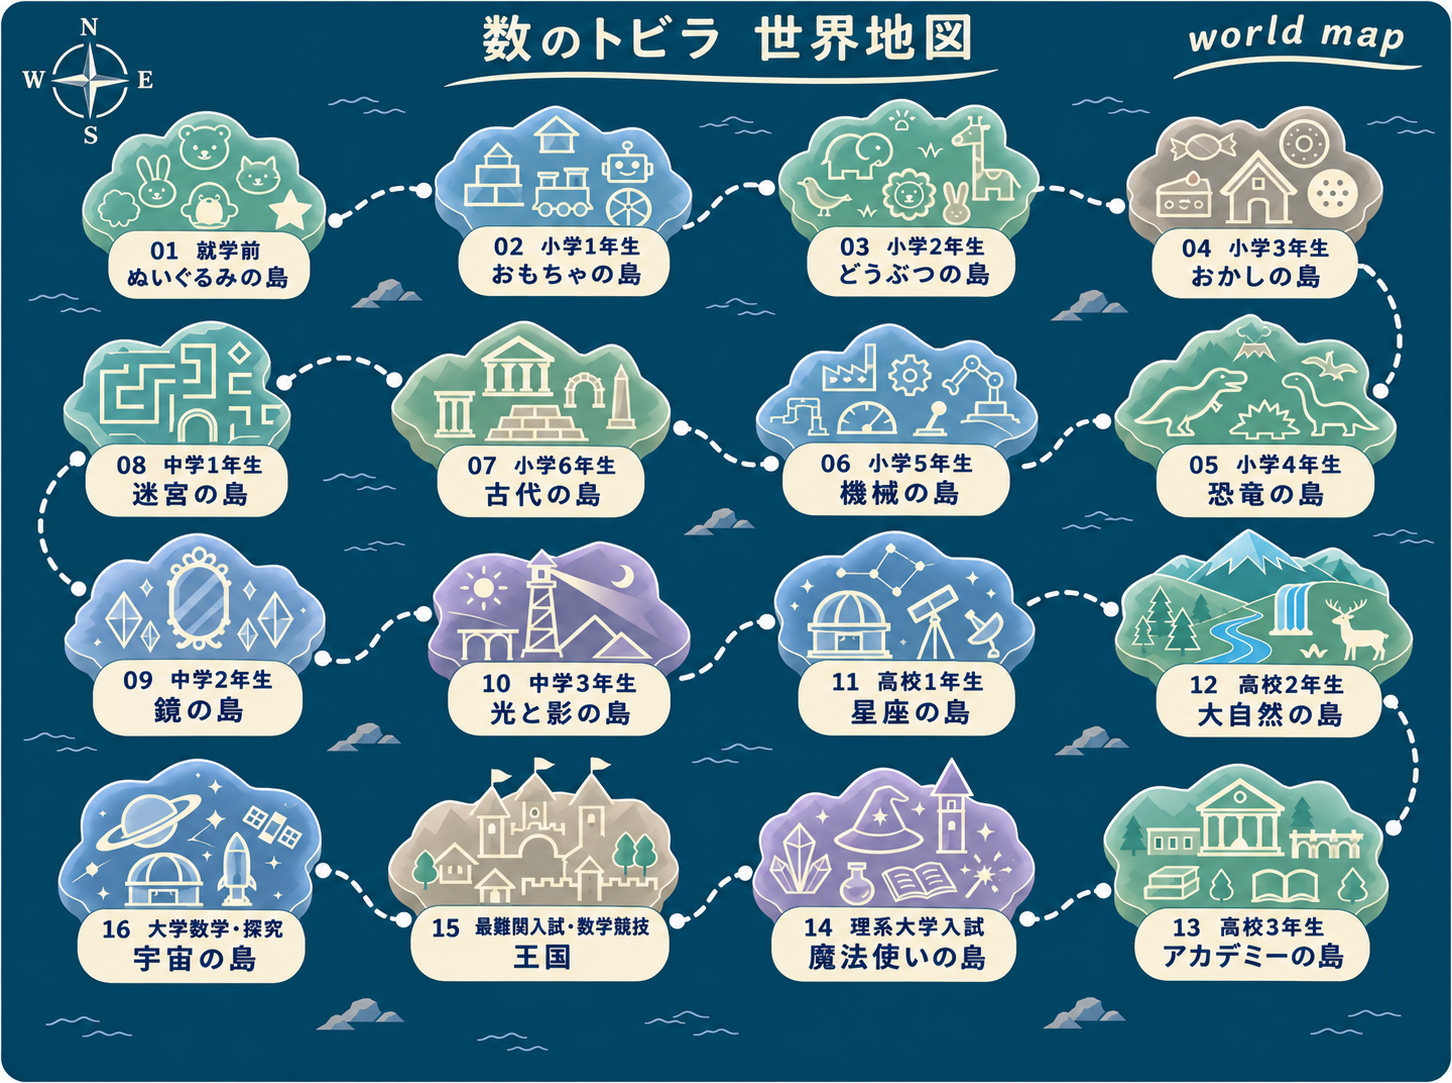
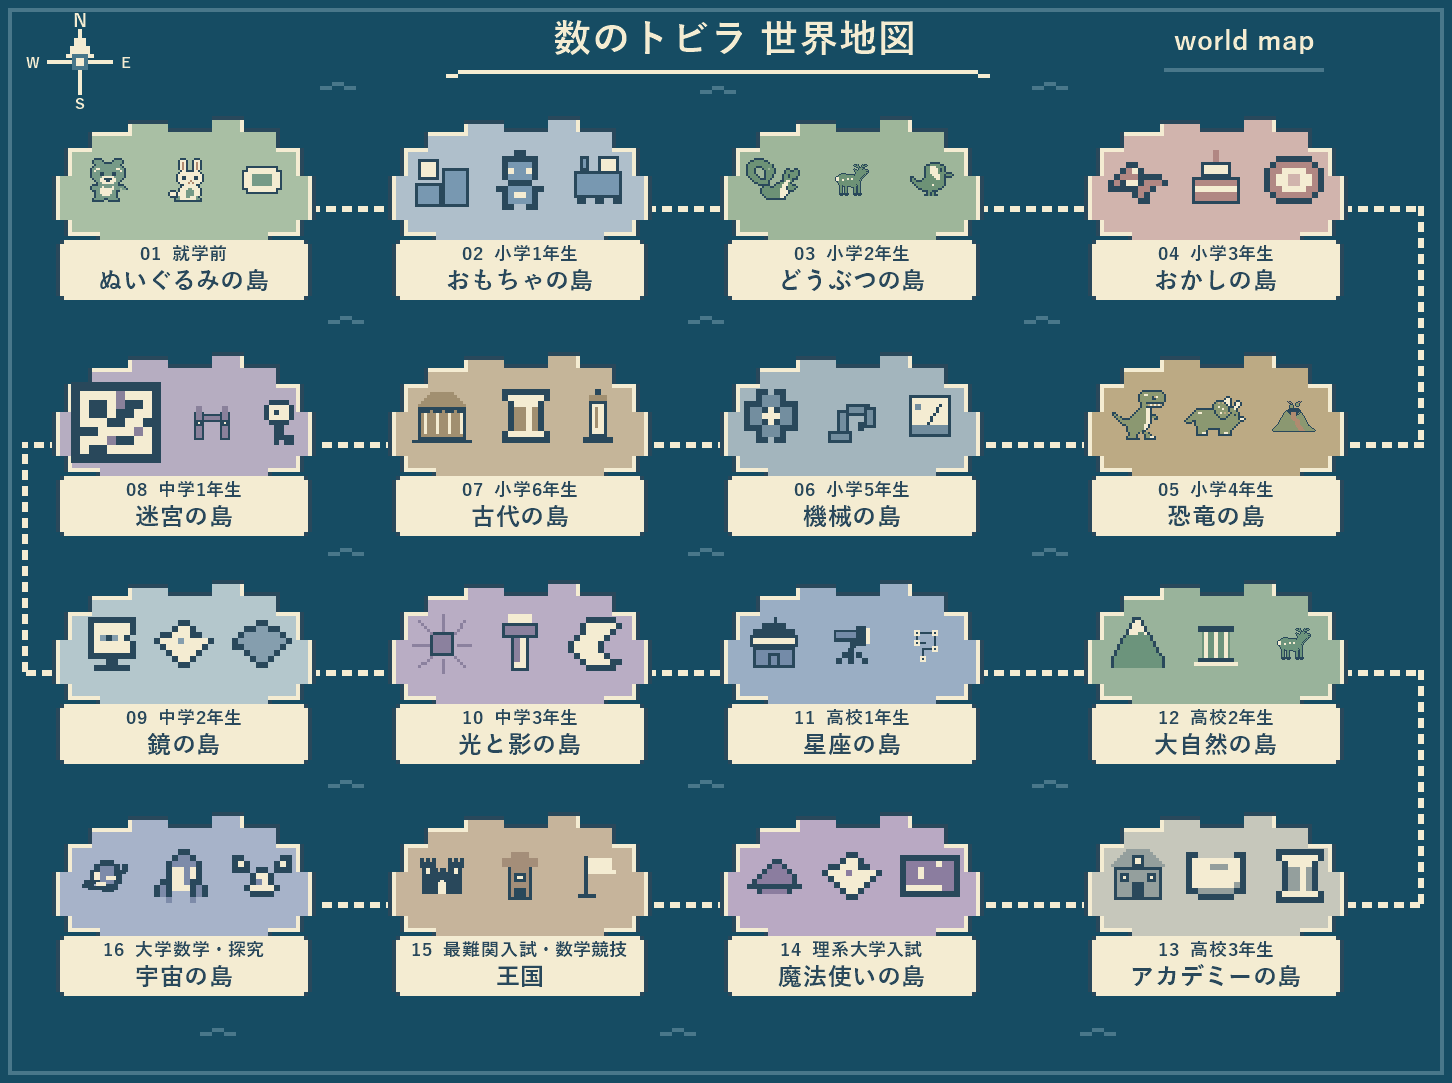
Unify world overview with a simple pixel atlas and preserved island targets (#170)

diff --git a/src/domain/pixelWorldMap.ts b/src/domain/pixelWorldMap.ts
@@ -1,0 +1,54 @@
+import {approvedWorldMapHotspots} from './approvedWorldMap.ts';
+import type {IslandSpriteId} from './islandPixelSprites.ts';
+
+/** World overview only: three readable stamps per island. Shared stage artwork,
+ * geometry, curriculum and entitlement rules are never changed by this atlas. */
+export const PIXEL_WORLD_MOTIFS = {
+  preschool:['forestBear','forestRabbit','cushion'],
+  e1:['blocks','robot','train'],
+  e2:['forestSquirrel','forestDeer','forestBird'],
+  e3:['candy','cake','donut'],
+  e4:['prehistoricRex','prehistoricTriceratops','prehistoricVolcano'],
+  e5:['gear','arm','meter'],
+  e6:['temple','column','obelisk'],
+  j1:['maze','gate','key'],
+  j2:['mirror','crystal','gem'],
+  j3:['sun','lightTower','moon'],
+  h1:['observatory','telescope','constellation'],
+  h2:['mountain','waterfall','forestDeer'],
+  h3:['school','book','column'],
+  sage:['hat','crystal','spellbook'],
+  champion:['castle','tower','flag'],
+  cosmos:['planet','rocket','satellite'],
+} as const satisfies Record<string,readonly IslandSpriteId[]>;
+
+// Same 16 anchors and serpentine connections as the existing clickable map.
+export const PIXEL_WORLD_CENTERS = approvedWorldMapHotspots.map(({x,y})=>({
+  x:Math.round((x*1452+12)/4)*4,y:Math.round(y*1083/4)*4,
+}));
+export const PIXEL_WORLD_CONNECTIONS = PIXEL_WORLD_CENTERS.slice(1).map((end,index)=>{
+  const start=PIXEL_WORLD_CENTERS[index];
+  if(index%4!==3)return {from:index,to:index+1,points:[{x:start.x,y:start.y+12},{x:end.x,y:end.y+12}]};
+  const outside=index===7?24:1420;
+  return {from:index,to:index+1,points:[{x:start.x,y:start.y+12},
+    {x:outside,y:start.y+12},{x:outside,y:end.y+12},{x:end.x,y:end.y+12}]};
+});
+/** Simplified overview-only stamps. Individual island artwork is untouched. */
+function overviewStamp(draw:(box:(x:number,y:number,w:number,h:number,c?:string)=>void)=>void) {
+  const grid=Array.from({length:24},()=>Array<string>(24).fill('.'));
+  draw((x,y,w,h,c='X')=>{for(let yy=y;yy<y+h;yy++)for(let xx=x;xx<x+w;xx++)if(grid[yy]?.[xx]!==undefined)grid[yy][xx]=c;});
+  return grid.map(row=>row.join(''));
+}
+export const PIXEL_WORLD_STAMPS={
+  cushion:overviewStamp(b=>{b(4,5,16,14);b(2,7,20,10);b(5,6,14,12,'F');b(3,8,18,8,'F');b(7,9,10,6,'B');}),
+  planet:overviewStamp(b=>{b(9,4,7,2);b(6,6,13,3);b(4,9,16,7);b(7,16,11,3);b(10,19,6,1);b(9,7,7,9,'B');b(6,10,3,4,'F');
+    b(1,14,5,3);b(0,16,3,2);b(3,17,5,2);b(7,15,5,2,'F');b(12,12,5,2,'F');b(17,9,5,2);b(20,6,3,4);}),
+  telescope:overviewStamp(b=>{b(3,5,12,6);b(14,3,5,10);b(19,4,2,8,'F');b(4,6,10,3,'B');b(11,11,3,3);b(10,14,3,8);
+    b(7,16,3,3);b(4,19,3,3);b(14,16,3,3);b(17,19,3,3);}),
+  constellation:overviewStamp(b=>{b(5,6,10,1);b(14,7,1,7);b(9,14,6,1);b(8,14,1,6);b(5,6,1,6);b(5,11,5,1);
+    for(const [x,y] of [[4,5],[13,5],[13,13],[7,18],[4,10]]){b(x,y,3,3,'F');b(x+1,y+1,1,1);}}),
+  waterfall:overviewStamp(b=>{b(3,3,18,3);b(5,6,14,14,'B');b(6,6,2,13,'F');b(11,6,2,13,'F');b(16,6,2,13,'F');b(3,19,18,2);b(1,21,22,2,'F');}),
+  castle:overviewStamp(b=>{for(const x of [2,16]){b(x,5,6,16);b(x-1,3,2,5);b(x+2,3,2,5);b(x+5,3,2,5);b(x+2,8,2,3,'F');}
+    b(8,10,8,11);b(7,8,3,4);b(11,8,3,4);b(15,8,2,4);b(10,15,4,6,'F');b(11,14,2,1,'F');}),
+  flag:overviewStamp(b=>{b(5,2,2,20);b(7,3,12,8,'F');b(17,9,4,2,'F');b(2,21,9,2);}),
+};

diff --git a/src/components/WorldScenes780.tsx b/src/components/WorldScenes780.tsx
@@ -83,7 +83,7 @@ export function WorldMap780({ progress, mode, access, onGrade, onTitles, preview
   };
   return <View style={styles.screen}>
     <View style={styles.worldBanner}>
-      <Text accessibilityRole="header" style={styles.bannerHeading}>数のトビラの世界地図</Text>
+      <Text accessibilityRole="header" style={styles.bannerHeading}>数のトビラ 世界地図</Text>
       <Text style={styles.bannerDescription}>01から16へ、点線にそって進もう。島をタップすると学習マップが開くよ。</Text>
       <View style={styles.stats}>
         <Text style={styles.stat}>{worldIslands.length}の島 · {allWorldStages.length.toLocaleString('ja-JP')}地点</Text>
@@ -109,7 +109,7 @@ export function WorldMap780({ progress, mode, access, onGrade, onTitles, preview
         style={{height:imageHeight}} nestedScrollEnabled>
         <View style={{width:imageWidth,height:imageHeight}}>
           <Image source={{uri:approvedWorldMapImageUrl}} resizeMode="stretch"
-            accessibilityLabel="16島それぞれのテーマを幾何学的な線画で描いた、数のトビラの世界地図"
+            accessibilityLabel="16島それぞれのテーマを3つのドット絵で描いた、数のトビラの世界地図"
             style={{width:imageWidth,height:imageHeight}} />
           {worldIslands.map((grade,index)=>{
             const spot=approvedWorldMapHotspots[index];

diff --git a/src/domain/approvedWorldMap.ts b/src/domain/approvedWorldMap.ts
@@ -8,7 +8,7 @@ export const approvedWorldMap = {
   width: 1452,
   height: 1083,
   filename: 'world-map-approved.png',
[2 lines of base64/hex data omitted]
 } as const;
 export const approvedWorldMapHotspots = [
   {x:.118,y:.180}, // 01 preschool – plush toys
@@ -30,7 +30,7 @@ export const approvedWorldMapHotspots = [
 ] as const;
 
 export const approvedWorldMapImageUrl =
-  '/kazu-no-tobira/world-map-approved.png?v=c8f621c9';
+  '/kazu-no-tobira/world-map-approved.png?v=742a476a';
 
 export function approvedWorldMapDimensions(viewWidth:number,zoomed:boolean) {
   const actualWidth=Math.max(244,viewWidth||360);

diff --git a/AGENTS.md b/AGENTS.md
@@ -2,7 +2,7 @@
 
 > **最優先理念：子どもが、ひとりで学べる。** 学習者が保護者・先生なしで操作・考察・ヒント・解説・復習・次の学習を進められることを、実装/教材/有料機能/UI/公開の受け入れ基準にする。必ず [教育理念と教材品質の最上位仕様](docs/EDUCATIONAL_PRINCIPLES_AND_QUALITY.md) を読み、数学的検証と教育的な説明レビューを区別する。
 
-島の世界観は [全16島のコンセプト](docs/ISLAND_WORLD_CONCEPTS.md) を確認する。**16島の名前・テーマはすべてユーザー確定済み**（幼児ぬいぐるみ／小1おもちゃ／小2どうぶつ／小3おかし／小4恐竜／小5機械／小6古代／中1迷宮／中2鏡／中3光と影／高1星座／高2大自然／高3アカデミー／賢者魔法使い／覇王王国／宇宙の島）。世界地図は濃紺・青緑・淡いグレー等の落ち着いた配色、控えめな線画アイコン、交差のない経路で表示する。キラキラした演出や過剰な装飾は避ける。**2026-11-19承認画像が正式版**：`public/world-map-approved.avif`（元画像1448×1086、16島の絵柄・配置・ルート・島名を含む）が世界地図の正本。画面では画像の上に透明な島タップ領域と左上の小型方位マークを重ねる。16島の学習ステージ・ID・進捗は変更せず、画像差替えによって画面から島を選べなくならないようにする。配置の再変更は本人の承認を得る。
+島の世界観は [全16島のコンセプト](docs/ISLAND_WORLD_CONCEPTS.md) を確認する。**16島の名前・テーマはすべてユーザー確定済み**（幼児ぬいぐるみ／小1おもちゃ／小2どうぶつ／小3おかし／小4恐竜／小5機械／小6古代／中1迷宮／中2鏡／中3光と影／高1星座／高2大自然／高3アカデミー／賢者魔法使い／覇王王国／宇宙の島）。世界地図は濃紺・青緑・淡いグレー等の落ち着いた配色、控えめな線画アイコン、交差のない経路で表示する。キラキラした演出や過剰な装飾は避ける。**2026-11-21ユーザー指示：世界地図は配置を維持し、シンプルな8-bit記号マップへ統一**。`public/world-map-approved.png`（1452×1083）を使い、16島の既存タップ領域・並び・接続順を維持する。各島は代表モチーフ3個、平坦な少数色、階段状の輪郭、四角い破線ルート。タイトル「数のトビラ 世界地図」「world map」と左上の方位を保持。原画データは `src/domain/pixelWorldMap.ts`、再生成は `scripts/build-pixel-world-map.ps1`。教材・ステージID・学習記録・無料有料の条件は変更しない。配置の再変更は本人の承認を得る。
 
 ## 【最優先・2026-11-18】ChatGPT主担当と幼児の島の制作順序
 

diff --git a/docs/ISLAND_MAP_STANDARD.md b/docs/ISLAND_MAP_STANDARD.md
@@ -40,3 +40,9 @@
 7. 問題・解答・ヒント・解説・審査データは地図改修で変更しないこと
 
 将来の全島に上記の基本レイアウトを継承する。
+## 世界地図の概要図（2026-11-21ユーザー指定）
+- 全16島の既存配置、順序、接続、タップ領域を維持したシンプルな8-bit記号マップ。
+- `public/world-map-approved.png` は1452×1083の概要図。各島3モチーフ、階段状の輪郭、平坦な配色、四角い破線、控えめな波と左上方位を用いる。
+- 島名・学年・番号は読みやすい通常の文字で表示し、スマホの既存の拡大・横スクロール・島一覧を維持する。
+- 詳細な島マップを概要図に詰め込まない。世界地図専用モチーフは `pixelWorldMap.ts` で管理し、本編のスプライトは変更しない。
+- 原画再生成：日本語フォント Yu Gothic がインストールされたWindowsで `./scripts/build-pixel-world-map.ps1`。生成済みPNGとSHAをGitで管理し、アプリのビルドでは再生成不要。
